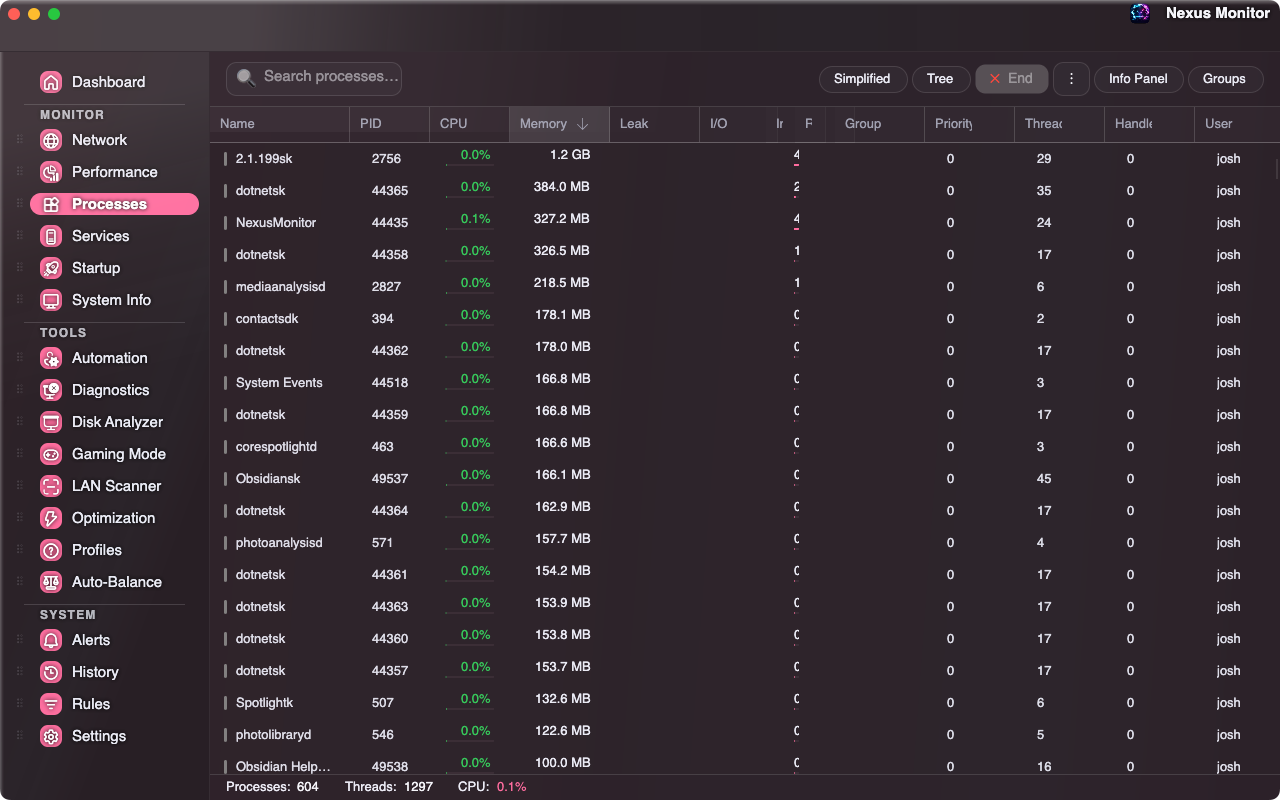
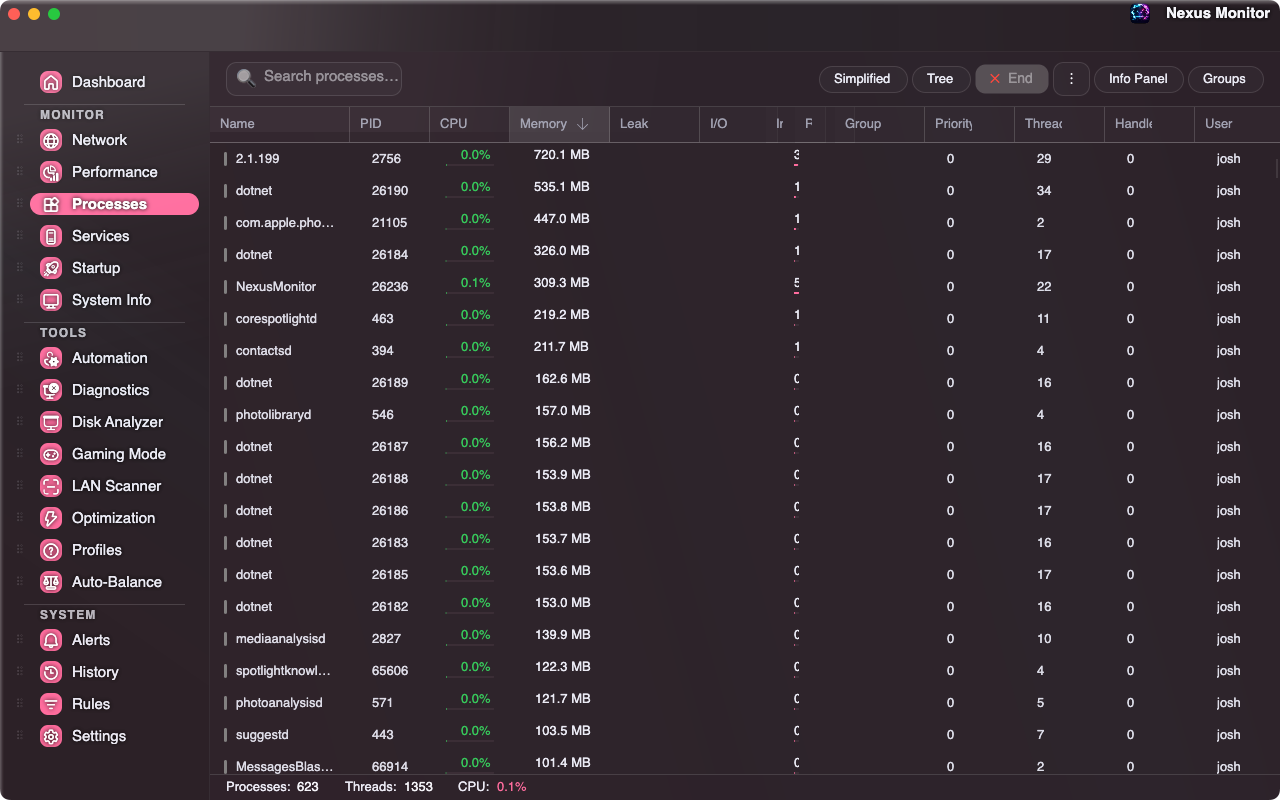
release: v0.7.0 — changelog cut, version bump, clean-names Processes screenshot

diff --git a/CHANGELOG.md b/CHANGELOG.md
@@ -7,6 +7,29 @@ and this project adheres to [Semantic Versioning](https://semver.org/spec/v2.0.0
 
 ## [Unreleased]
 
+## [0.7.0] - 2026-07-11
+
+### Added
+- **macOS: real CPU temperature.** The CPU card now reports actual temperature readings on
+  Apple Silicon and Intel Macs, read directly from the hardware sensor and filtered against
+  implausible values, instead of showing nothing.
+- **macOS: real GPU utilization and memory.** The GPU card now shows live utilization and
+  memory usage on macOS instead of a flat 0%. Memory is shown as used-only on Apple Silicon,
+  where the OS has no separate dedicated-VRAM total to report — no invented capacity number.
+- **macOS: honest GPU temperature.** GPU temperature is now shown when the hardware reports a
+  plausible reading, and clearly marked unavailable rather than showing a misleading number
+  when it doesn't (common at idle on some Apple Silicon models).
+
+### Fixed
+- **macOS: corrupted process names.** Some process names in the Processes tab could render
+  with garbled trailing characters (e.g. stray letters appended to the real name); names now
+  display correctly.
+- **App no longer lingers after closing (all platforms).** Closing the main window, choosing "Close
+  Application," or using Exit from the tray icon now reliably ends the process every time,
+  including when the overlay widget or a pop-out window was open. The tray's Exit command now
+  also runs the same full shutdown cleanup as every other way of quitting, and window position
+  is no longer lost if you quit during a shutdown race.
+
 ## [0.6.0] - 2026-07-09
 
 ### Added
@@ -612,7 +635,8 @@ and this project adheres to [Semantic Versioning](https://semver.org/spec/v2.0.0
 - **macOS 12+ (Intel + Apple Silicon):** Full support. Unsigned — see README for Gatekeeper bypass.
 - **Linux (x64, ARM64):** Full support. Best tested on Ubuntu 22.04+.
 
-[Unreleased]: https://github.com/joshuadsutcliff/nexus-system-monitor/compare/v0.6.0...HEAD
+[Unreleased]: https://github.com/joshuadsutcliff/nexus-system-monitor/compare/v0.7.0...HEAD
+[0.7.0]: https://github.com/joshuadsutcliff/nexus-system-monitor/compare/v0.6.0...v0.7.0
 [0.6.0]: https://github.com/joshuadsutcliff/nexus-system-monitor/compare/v0.5.2...v0.6.0
 [0.5.2]: https://github.com/joshuadsutcliff/nexus-system-monitor/compare/v0.5.1...v0.5.2
 [0.5.1]: https://github.com/joshuadsutcliff/nexus-system-monitor/compare/v0.5.0...v0.5.1